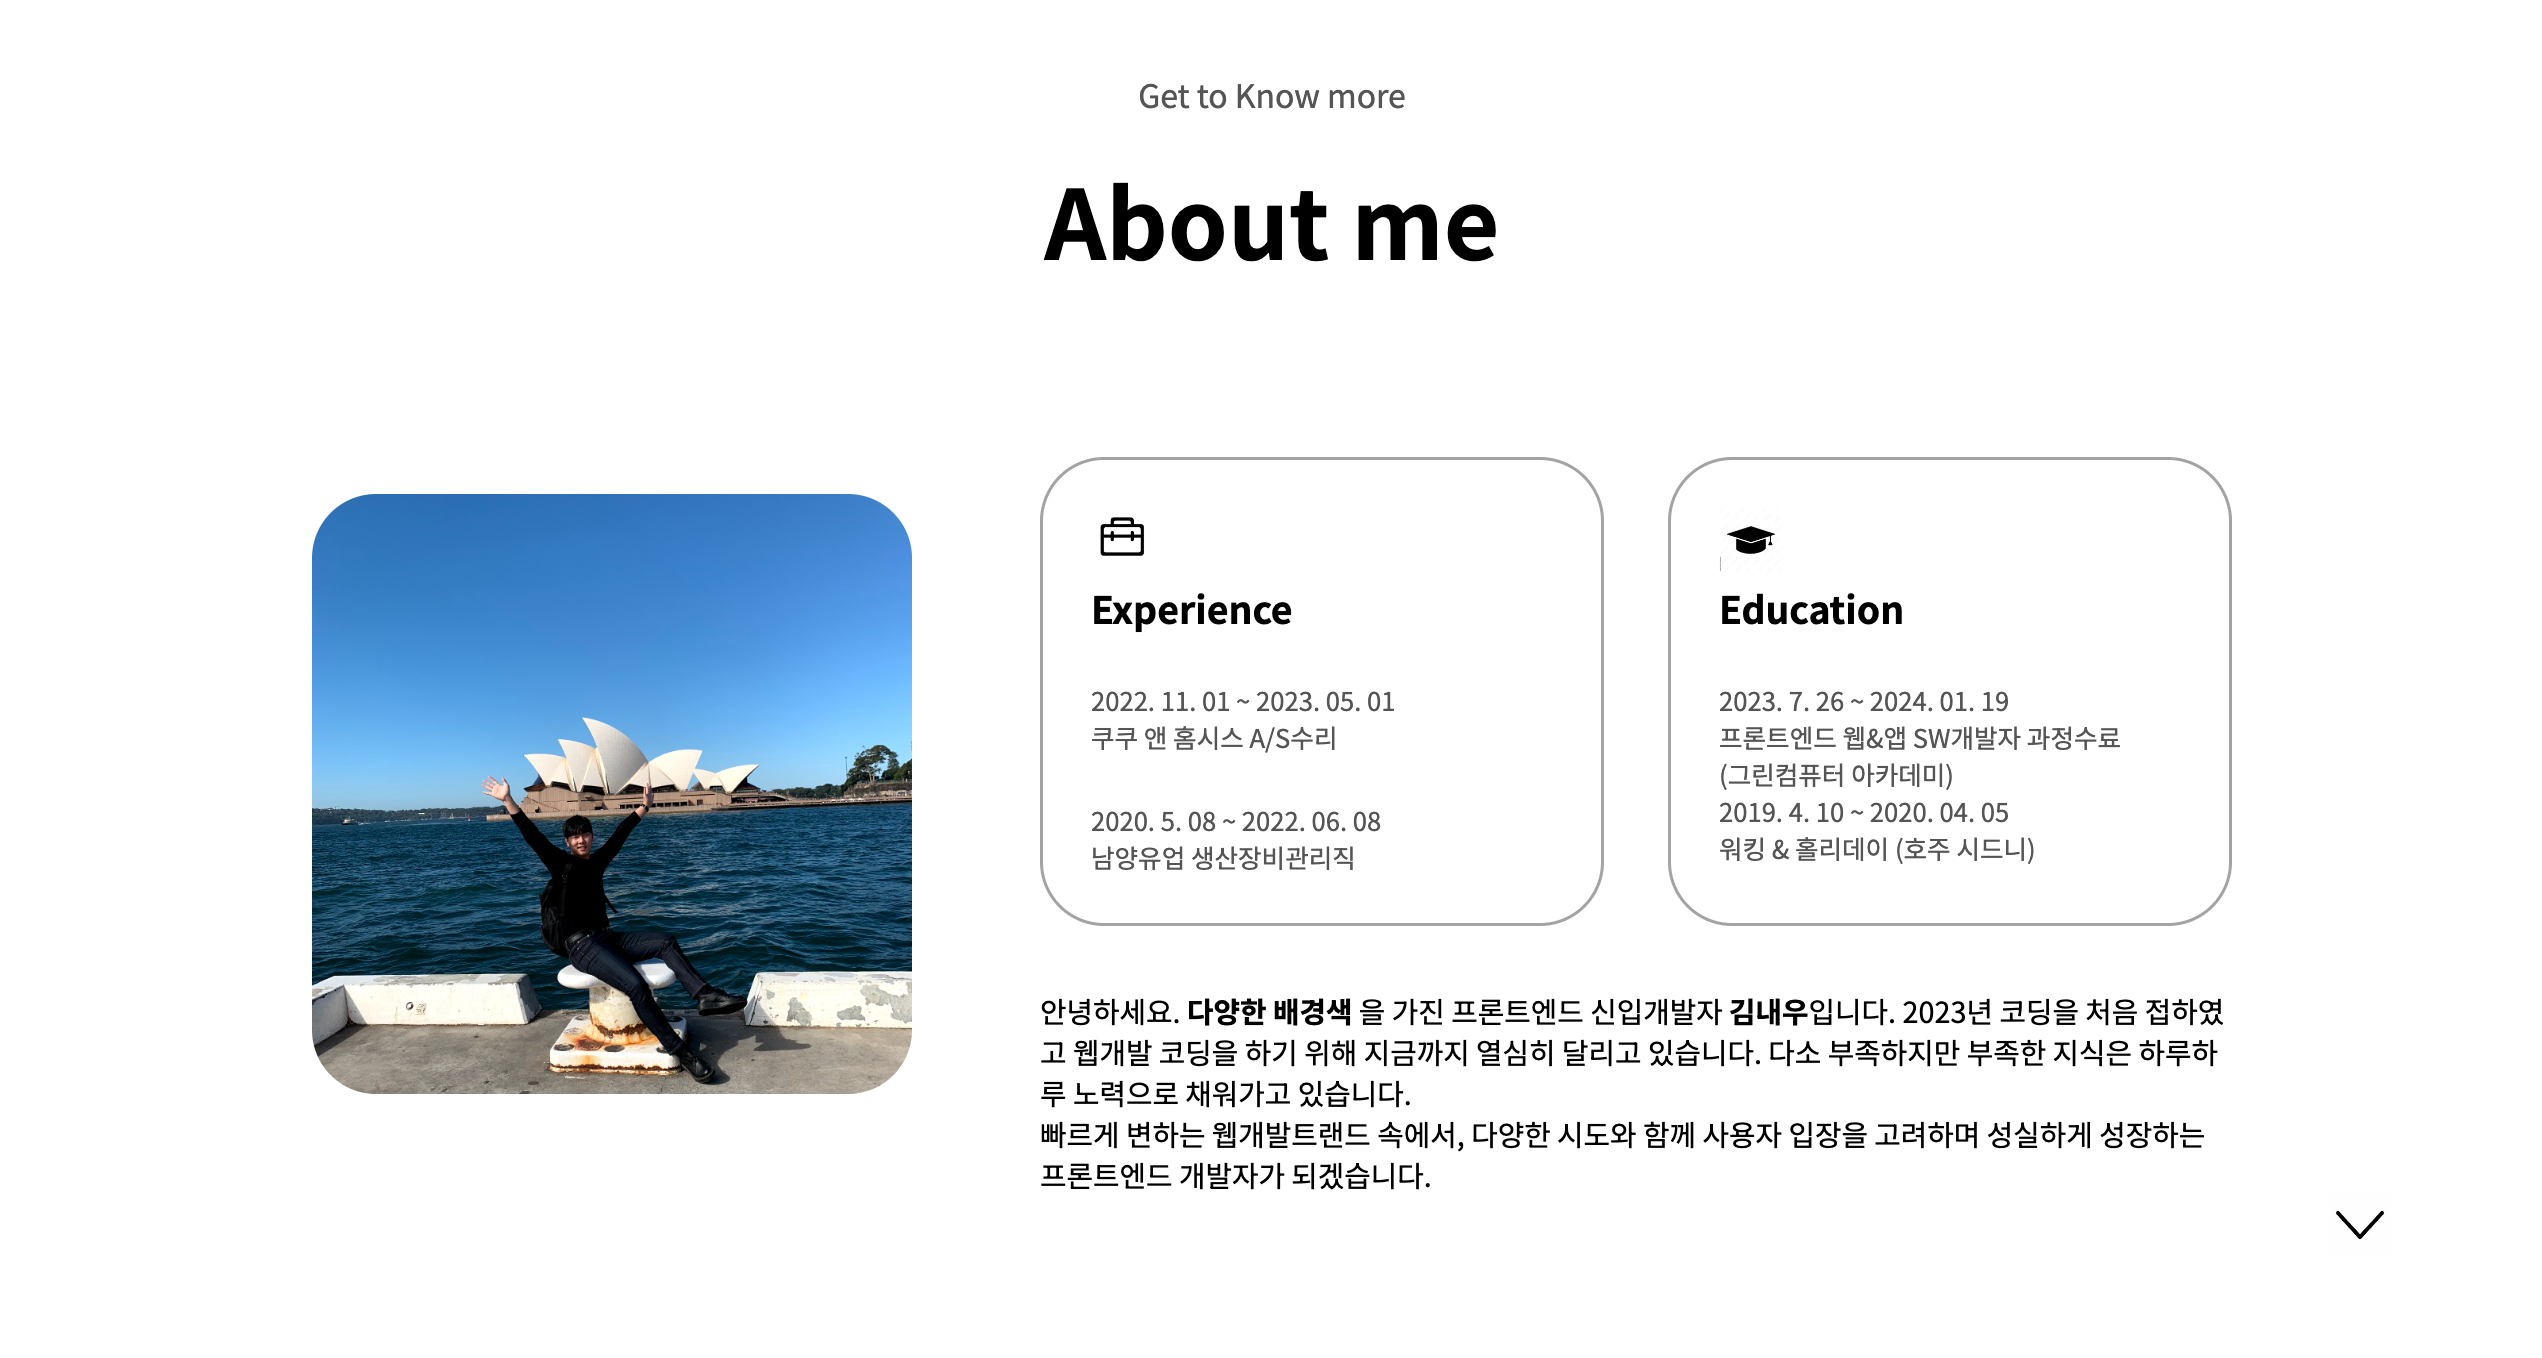
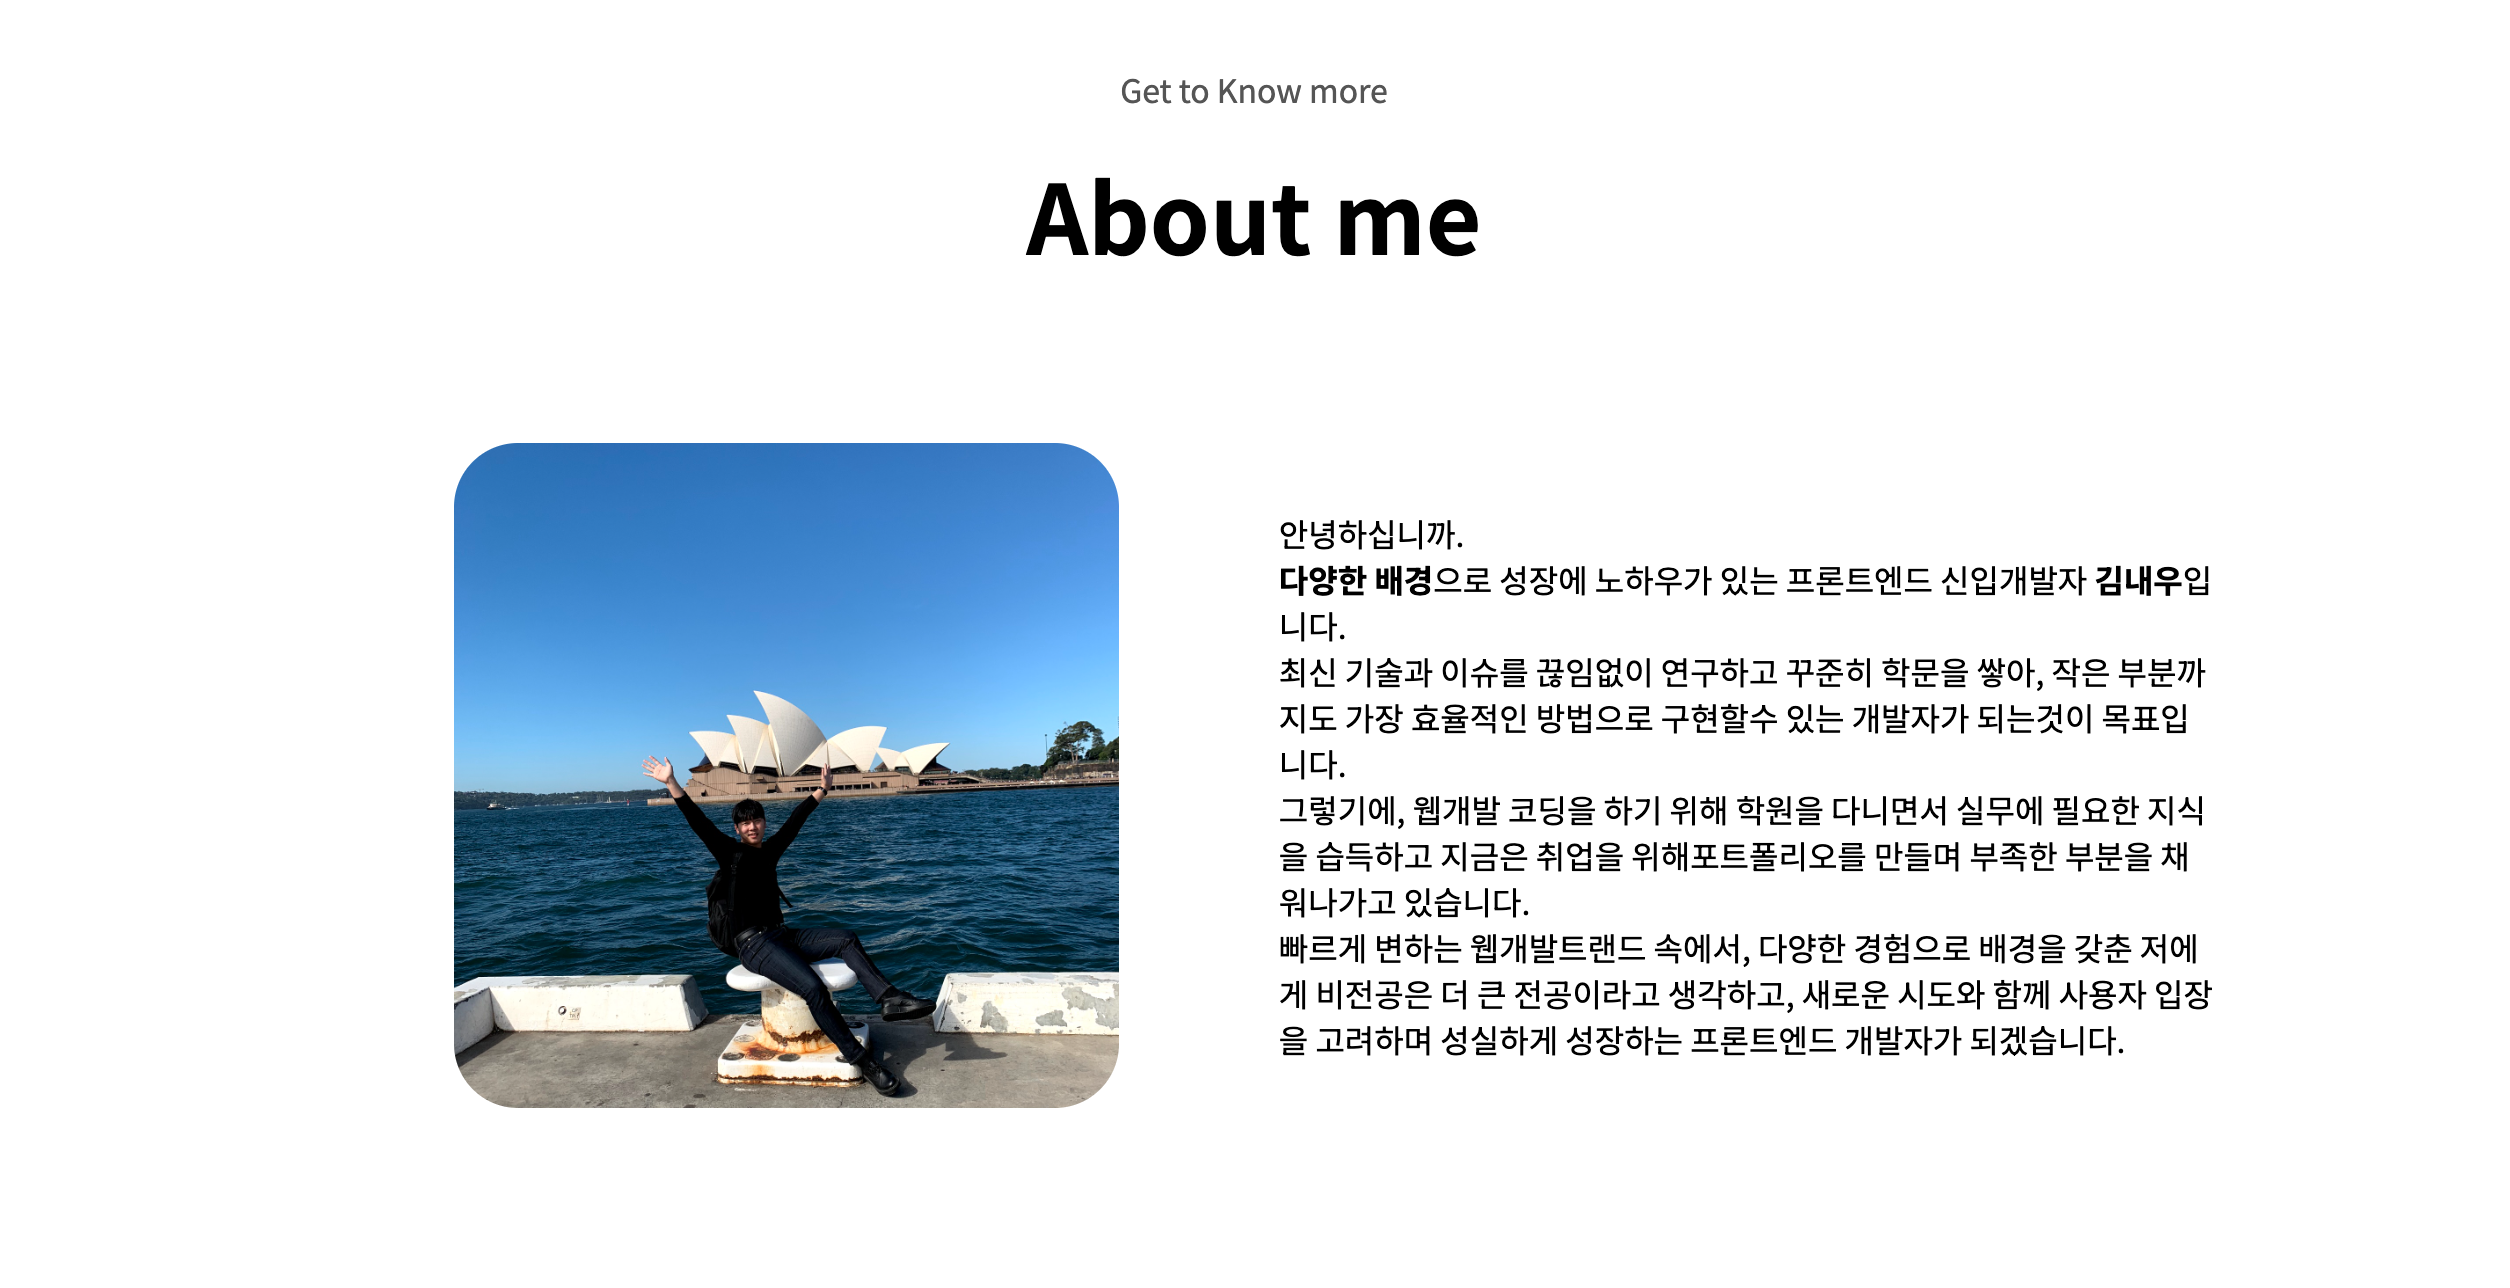
포트폴리오 디자인 및 내용 수정

diff --git a/index.html b/index.html
@@ -140,8 +140,8 @@
           </div>
         </div>
       </div>
+      <img src="./assets/bottom-arrow.jpg" alt="arrow icon" class="icon arrow" onclick="location.href='./#experience'" />
     </section>
-    <img src="./assets/bottom-arrow.jpg" alt="arrow icon" class="icon arrow" onclick="location.href='./#experience'" />
     <section id="experience">
       <p class="section__text__p1">Explore my</p>
       <h1 class="title">My Skill</h1>
@@ -153,11 +153,11 @@
                 <div class="article-container-imgbox">
                   <img src="./html.png" alt="html" class="icon" />
                   <h3>HTML 5</h3>
-                  <p>Experienced</p>
+                  <!-- <p>Experienced</p> -->
                 </div>
                 <div class="article-container-box">
                   <div class="r-percent">
-                    <div class="a-percent1"></div>
+                    <div class="a-percent1">웹 접근성, 표준성을 준수하며 시멘틱태그를 이용해 마크업 할수 있습니다.</div>
                   </div>
                 </div>
               </article>
@@ -165,11 +165,11 @@
                 <div class="article-container-imgbox">
                   <img src="./css.png" alt="html" class="icon" />
                   <h3>CSS 3</h3>
-                  <p>Experienced</p>
+                  <!-- <p>Experienced</p> -->
                 </div>
                 <div class="article-container-box">
                   <div class="r-percent">
-                    <div class="a-percent1"></div>
+                    <div class="a-percent1">position, display를 적절히 사용하여 반응형웹을 적용할 수 있습니다.</div>
                   </div>
                 </div>
               </article>
@@ -177,11 +177,13 @@
                 <div class="article-container-imgbox">
                   <img src="./javascript.png" alt="html" class="icon" />
                   <h3>Javscript</h3>
-                  <p>Experienced</p>
+                  <!-- <p>Experienced</p> -->
                 </div>
                 <div class="article-container-box">
                   <div class="r-percent">
-                    <div class="a-percent2"></div>
+                    <div class="a-percent1">
+                      javascipt의 배열,메소드,DOM을 이해하며 다양한 상황에 적용할수 있습니다.
+                    </div>
                   </div>
                 </div>
               </article>
@@ -189,11 +191,14 @@
                 <div class="article-container-imgbox">
                   <img src="./react.png" alt="html" class="icon" />
                   <h3>React</h3>
-                  <p>Experienced</p>
+                  <!-- <p>Experienced</p> -->
                 </div>
                 <div class="article-container-box">
                   <div class="r-percent">
-                    <div class="a-percent2"></div>
+                    <div class="a-percent1">
+                      React 구조와 여러가지 hook들의 기능을 알고 있으며, 범용적이고 재사용 가능한 컴포넌트 설계를 할수
+                      있습니다.
+                    </div>
                   </div>
                 </div>
               </article>
@@ -201,10 +206,10 @@
                 <div class="article-container-imgbox">
                   <img src="./jquery.png" alt="html" class="icon" />
                   <h3>jQuery</h3>
-                  <p>Experienced</p>
+                  <!-- <p>Experienced</p> -->
                 </div>
                 <div class="r-percent">
-                  <div class="a-percent3"></div>
+                  <div class="a-percent1">관련 라이브러리와 애니메이션, 여러 메소드들을 활용할수 있습니다.</div>
                 </div>
               </article>
             </div>
@@ -328,7 +333,7 @@
       <h1 class="title">Contact Me</h1>
       <div class="contact-info-upper-container">
         <div class="contact-info-container">
-          <img src="./phone.jpg" alt="phone icon" class="icon contact-icon email-icon" />
+          <img src="./phone.jpg" alt="phone icon" class="icon contact-icon " />
           <p><a href="#">010 - 4680 - 9592</a></p>
         </div>
         <div class="contact-info-container">
@@ -336,7 +341,7 @@
           <p><a href="mailto:gnag0403@naver.com">gnag0403@naver.com</a></p>
         </div>
         <div class="contact-info-container">
-          <img src="./assets/git.jpg" alt="Github icon" class="icon contact-icon" />
+          <img src="./assets/git.jpg" alt="Github icon" class="icon contact-icon " />
           <p><a href="https://github.com/kimnaewoo">My Github</a></p>
         </div>
       </div>

diff --git a/style.css b/style.css
@@ -224,7 +224,8 @@ section {
 .about-containers,
 .about-details-container {
   display: flex;
-  gap: 5px;
+  flex-wrap: wrap;
+  gap: 40px;
 }
 .about-pic {
   border-radius: 2rem;
@@ -290,17 +291,17 @@ section {
   position: relative;
 }
 .experience-details-container {
-  margin-top: 5%;
+  margin-top: 2%;
 }
 .article-container span {
-  font-size: 1rem;
+  font-size: 0.8rem;
 }
 .article-container {
   display: flex;
   text-align: initial;
   flex-wrap: wrap;
   flex-direction: column;
-  gap: 1.5rem;
+  gap: 1rem;
 }
 .article-container-imgbox {
   display: flex;
@@ -315,13 +316,13 @@ section {
   flex-direction: row;
   gap: 1rem;
 }
-.skill-container {
-  padding: 1% 15%;
-}
+
 article {
   display: flex;
   width: 100%;
   justify-content: space-between;
+  padding-bottom: 0.5rem;
+  border-bottom: 1px solid #ccc;
 }
 article .icon {
   cursor: default;
@@ -330,39 +331,21 @@ article .icon {
 .r-percent {
   position: relative;
   border-radius: 10px;
-  width: 500px;
+  width: 700px;
   height: 50px;
-  background-color: #ddd;
 }
 .a-percent1 {
   position: absolute;
   border-radius: 10px;
-  top: 0;
-  left: 0;
-  width: 400px;
+  top: 12px;
+  left: 10px;
+  width: 100%;
   height: 100%;
-  background-color: rgb(30, 144, 256);
-}
-.a-percent2 {
-  position: absolute;
-  border-radius: 10px;
-  top: 0;
-  left: 0;
-  width: 300px;
-  height: 100%;
-  background-color: rgb(50, 205, 50);
-}
-.a-percent3 {
-  position: absolute;
-  border-radius: 10px;
-  top: 0;
-  left: 0;
-  width: 250px;
-  height: 100%;
-  background-color: rgb(256, 215, 0);
+  font-size: 0.9rem;
 }
 #projects {
   position: relative;
+  height: 200vh;
 }
 .color-container {
   border-color: rgb(163, 163, 163);

diff --git a/mediaquery.css b/mediaquery.css
@@ -45,7 +45,8 @@
     font-size: 0.7rem;
   }
   .text-container {
-    font-size: 0.8rem;
+    font-size: 0.7rem;
+    padding: 0.5rem;
   }
 }
 @media screen and (max-width: 600px) {
@@ -68,7 +69,7 @@
     width: 100%;
   }
   #experience {
-    height: 110vh;
+    height: 150vh;
   }
   article {
     font-size: 1rem;
@@ -77,9 +78,7 @@
   .article-container {
     gap: 0.5rem;
   }
-  .article-container h4 {
-    /* font-size: 0.8rem; */
-  }
+
   .article-container span {
     font-size: 0.8rem;
   }
@@ -88,17 +87,12 @@
   }
   .r-percent {
     width: 100%;
-    height: 5vh;
+    height: 11vh;
   }
   .a-percent1 {
     width: 80%;
   }
-  .a-percent2 {
-    width: 70%;
-  }
-  .a-percent3 {
-    width: 60%;
-  }
+
   footer nav {
     height: fit-content;
     margin-top: 1rem;
@@ -118,14 +112,13 @@
   }
   .details-containers p {
     font-size: 0.8rem;
-  }
-  .about-containers {
-    margin-top: 15%;
+    padding-bottom: 0.7rem;
   }
   .about-containers,
   .contact-info-upper-container,
   .btn-container {
     flex-wrap: wrap;
+    gap: 5px;
   }
   .contact-info-container {
     margin: 0;
@@ -169,5 +162,11 @@
   }
   .project-containers {
     flex-direction: column;
+  }
+  #projects {
+    height: 310vh;
+  }
+  article:nth-of-type(4) {
+    padding-bottom: 1rem;
   }
 }
